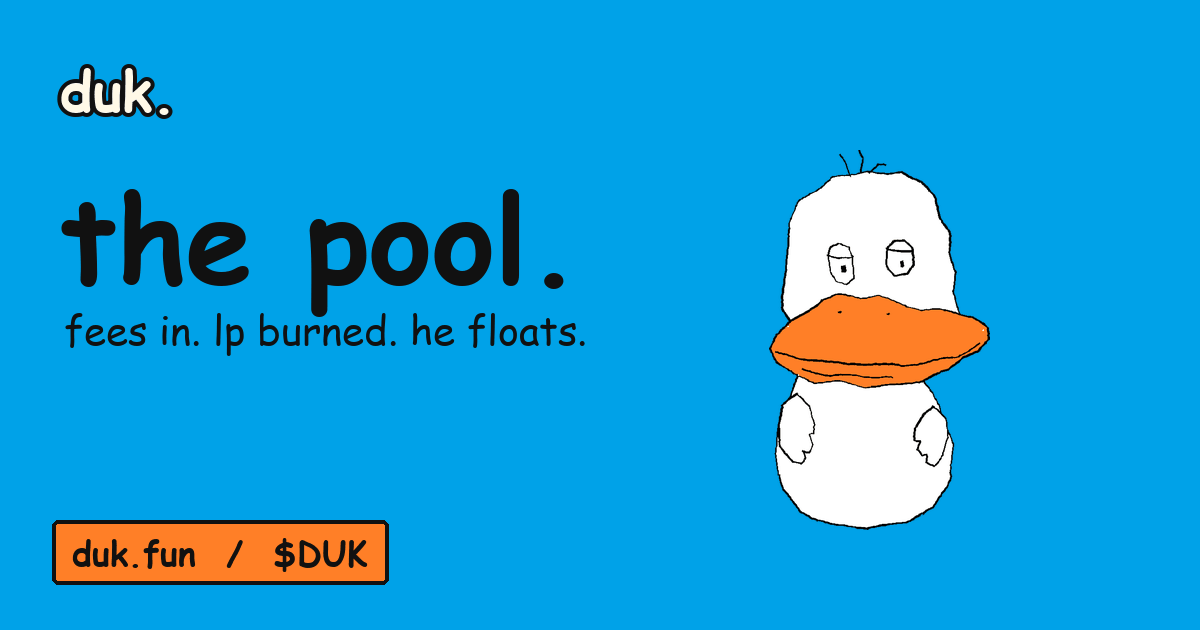
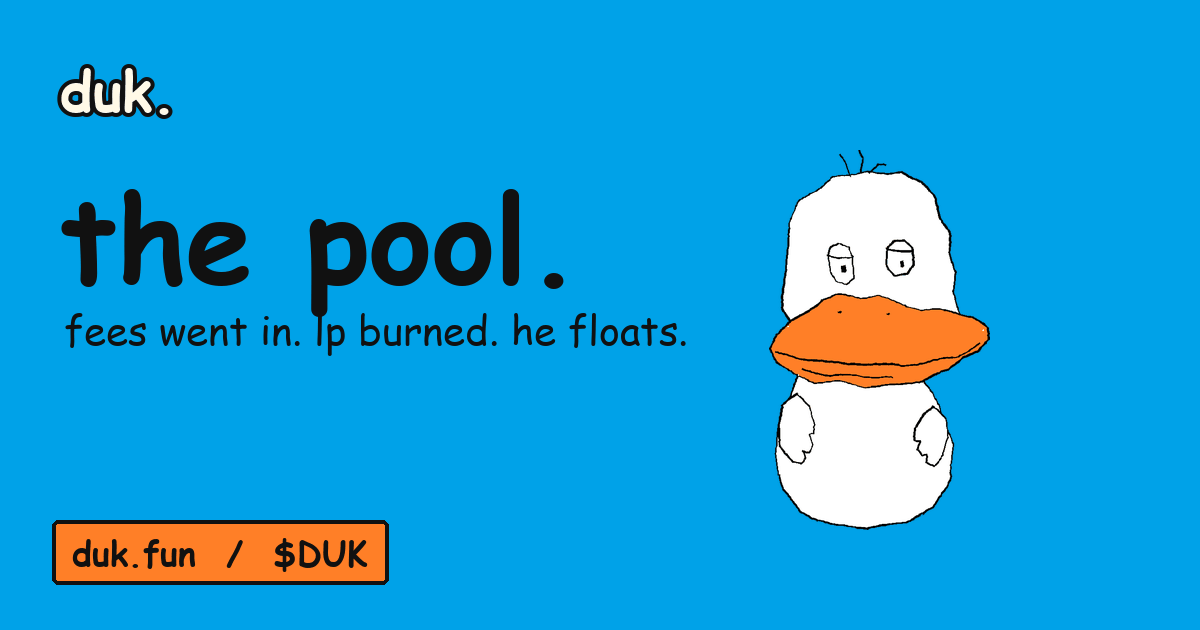
pool copy: receipt-backed past tense
- [data-pool-added] lines (pool hero, home card, manual receipts) filled by app.js from /log totals.solAdded: 'the bot has added N sol to the pool and burned the lp from every add.'
- how-an-add-works explainer framed as 'when the bot adds'; h1 'fees went in the pool.'; press text + zip, pool og card past tense
- restamp app.js on all pages

Changed region(s): [[0.1233, 0.4825, 0.5858, 0.573]]

diff --git a/pool.html b/pool.html
@@ -5,22 +5,22 @@
   <meta name="viewport" content="width=device-width, initial-scale=1">
   <meta name="theme-color" content="#00a2e8">
   <title>the pool / duk.</title>
-  <meta name="description" content="fees go in the pool. a pool add: the bot claims creator fees, buys a slice of duk, adds duk and sol to the pool and burns the lp. receipts here. not a price floor. $DUK">
+  <meta name="description" content="fees went in the pool. the bot has added duk + sol to the pool and burned the lp from every add. receipts here. not a price floor. $DUK">
   <link rel="canonical" href="https://duk.fun/pool.html">
   <meta property="og:title" content="the pool / duk.">
-  <meta property="og:description" content="a pool add: the bot claims creator fees, buys a slice of duk, adds duk and sol to the pool and burns the lp. every add links to its transaction. $DUK">
+  <meta property="og:description" content="the bot has added duk + sol to the pool and burned the lp from every add. every add links to its transaction. $DUK">
   <meta property="og:type" content="website">
   <meta property="og:url" content="https://duk.fun/pool.html">
-  <meta property="og:image" content="https://duk.fun/assets/og/pool.png?v=6c07bb58">
+  <meta property="og:image" content="https://duk.fun/assets/og/pool.png?v=4b24f398">
   <meta property="og:image:width" content="1200">
   <meta property="og:image:height" content="630">
-  <meta property="og:image:alt" content="the pool. fees in. lp burned. he floats. duk floating on his back.">
+  <meta property="og:image:alt" content="the pool. fees went in. lp burned. he floats. duk floating on his back.">
   <meta property="og:site_name" content="duk.">
   <meta name="twitter:card" content="summary_large_image">
   <meta name="twitter:title" content="the pool / duk.">
-  <meta name="twitter:description" content="a pool add: the bot claims creator fees, buys a slice of duk, adds duk and sol to the pool and burns the lp. every add links to its transaction. $DUK">
-  <meta name="twitter:image" content="https://duk.fun/assets/og/pool.png?v=6c07bb58">
-  <meta name="twitter:image:alt" content="the pool. fees in. lp burned. he floats. duk floating on his back.">
+  <meta name="twitter:description" content="the bot has added duk + sol to the pool and burned the lp from every add. every add links to its transaction. $DUK">
+  <meta name="twitter:image" content="https://duk.fun/assets/og/pool.png?v=4b24f398">
+  <meta name="twitter:image:alt" content="the pool. fees went in. lp burned. he floats. duk floating on his back.">
   <meta name="twitter:site" content="@justdukfun">
   <link rel="icon" type="image/png" href="assets/memes/pfp.png">
   <link rel="apple-touch-icon" href="assets/icons/apple-touch-icon.png">
@@ -28,8 +28,8 @@
   <link rel="stylesheet" href="style.css?v=c09cd88d">
   <link rel="stylesheet" href="pool.css?v=e689f757">
   <script src="assets/config.js?v=4f90962a" defer></script>
-  <script src="app.js?v=e9706fc8" defer></script>
-  <script src="pool.js?v=91ebfe99" defer></script>
+  <script src="app.js?v=a1ea5574" defer></script>
+  <script src="pool.js?v=e0f2d941" defer></script>
 </head>
 <body class="pool-page">
   <a class="skip-link" href="#main">skip to the page</a>
@@ -40,9 +40,9 @@
   <main id="main">
     <section class="page-hero page-width" aria-labelledby="pool-title">
       <div>
-        <p class="eyebrow">the pool / where the fees go</p>
-        <h1 id="pool-title">fees go<br>in the pool.</h1>
-        <p class="lead">here's a pool add: the bot claims creator fees, buys a slice of duk with them, adds duk and sol to the pool and burns the lp. receipts below.<br><strong class="pool-hero-flat">a deeper pool can mean less slippage. not a price floor.</strong></p>
+        <p class="eyebrow">the pool / where the fees went</p>
+        <h1 id="pool-title">fees went<br>in the pool.</h1>
+        <p class="lead"><span data-pool-added>the bot has added sol to the pool and burned the lp from every add.</span> receipts below.<br><strong class="pool-hero-flat">a deeper pool can mean less slippage. not a price floor.</strong></p>
         <p class="pool-hero-jump"><a class="button" href="#pool-live">see the water</a> <a class="text-link" href="#pool-receipts">skip to the receipts <span aria-hidden="true">↓</span></a></p>
       </div>
       <img class="page-hero-art" id="pool-hero-art" src="assets/stand.png" width="800" height="1000" alt="duk. standing at the edge of the pool.">
@@ -63,13 +63,13 @@
         <li class="has-art"><strong>"exit liquidity."</strong><span>someone needed a buyer so they could sell. it was you.</span><img src="assets/obj_liq.png" width="500" height="280" alt="" loading="lazy"></li>
         <li><strong>"graduated. still needs supervision."</strong><span>the coin left the bonding curve and landed in a tiny pool.</span></li>
       </ol>
-      <p class="pool-shrug">duk can't fix any of that.<br><strong>he can put his creator fees in the pool.</strong></p>
+      <p class="pool-shrug">duk can't fix any of that.<br><strong>he put his creator fees in the pool.</strong></p>
     </section>
 
     <section class="pool-block page-width section-space" id="pool-how" aria-labelledby="pool-how-title">
       <div class="section-heading inline-heading">
-        <div><p class="eyebrow">02 / the plumbing</p><h2 id="pool-how-title">how duk's<br>pool works.</h2></div>
-        <p>five steps.<br>a bot does them.</p>
+        <div><p class="eyebrow">02 / the plumbing</p><h2 id="pool-how-title">how an add<br>works.</h2></div>
+        <p>five steps.<br>this is how it goes when the bot adds.</p>
       </div>
       <ol class="pool-flow">
         <li><b>1</b><strong>creator fees claimed</strong><span>the keeper claims duk's creator fees into the fee wallet.</span></li>
@@ -81,9 +81,9 @@
       <div class="pool-fineprint">
         <h3>the fine print, in big letters.</h3>
         <ul>
-          <li><strong>a keeper does it.</strong> a small bot on a server runs each add: fees claimed, a slice buys duk, duk and sol added, lp burned.</li>
+          <li><strong>a keeper does it.</strong> each add is run by a small bot on a server: fees claimed, a slice buys duk, duk and sol added, lp burned.</li>
           <li><strong>additions depend on fees, the keeper and execution.</strong> no trades means no fees, and no fees means nothing to add. if the keeper is down, nothing gets added either.</li>
-          <li><strong>other people's lp is separate.</strong> we burn the lp from our adds. everyone else's lp is theirs.</li>
+          <li><strong>other people's lp is separate.</strong> we burned the lp from our adds. everyone else's lp is theirs.</li>
         </ul>
       </div>
     </section>
@@ -95,8 +95,8 @@
       </div>
 
       <div class="pool-now" id="pool-now" aria-labelledby="pp-now-title">
-        <h3 id="pp-now-title">what the bot is doing now</h3>
-        <p class="pool-now-lead">a pool add: the bot claims creator fees, a slice of the sol buys duk, duk and sol go in the pool, and the lp is burned. receipts below.</p>
+        <h3 id="pp-now-title">what the bot has done</h3>
+        <p class="pool-now-lead">straight from the bot's log: the fees it has claimed, its launch-day curve buys and every add, each with a receipt.</p>
         <div class="pool-counters" role="group" aria-labelledby="pp-now-counter-title">
           <h3 id="pp-now-counter-title">so far</h3>
           <div><span>fees claimed (sol)</span><strong id="pp-claimed">—</strong></div>
@@ -168,8 +168,8 @@
       <div class="pool-wallet">
         <div>
           <p class="eyebrow">04 / the fee wallet</p>
-          <h2 id="pool-wallet-title">where the<br>fees land.</h2>
-          <p class="pool-wallet-lead">creator fees land here and the keeper spends from here. it's a public wallet, so anyone can look it up.</p>
+          <h2 id="pool-wallet-title">the fee<br>wallet.</h2>
+          <p class="pool-wallet-lead">the keeper's fee wallet. it's a public wallet, so anyone can look it up.</p>
         </div>
         <div class="pool-wallet-box">
           <label for="pp-wallet">fee wallet (solana)</label>
@@ -193,7 +193,7 @@
         <div class="pool-is">
           <h3>it is</h3>
           <ul>
-            <li>creator fees helping deepen the pool.</li>
+            <li>creator fees the bot has put in the pool.</li>
             <li>the lp from each add, burned.</li>
             <li>receipts in public. every add links to its transaction.</li>
           </ul>
@@ -219,7 +219,7 @@
       <div class="pool-faq">
         <details>
           <summary>why burn the lp?</summary>
-          <p>lp tokens are the claim ticket to take liquidity back out. the keeper burns the lp from the bot's adds. burned lp can't be redeemed, so nobody can withdraw that liquidity, us included. selling can still take sol out of the pool.</p>
+          <p>lp tokens are the claim ticket to take liquidity back out. the keeper burned the lp from every one of the bot's adds. burned lp can't be redeemed, so nobody can withdraw that liquidity, us included. selling can still take sol out of the pool.</p>
         </details>
         <details>
           <summary>does this pump the price?</summary>
@@ -231,7 +231,7 @@
         </details>
         <details>
           <summary>who runs the keeper?</summary>
-          <p>the dev runs it: a small automated service on a server. it claims creator fees, does the swap, the add and the burn, and writes the log this page reads.</p>
+          <p>the dev runs it: a small automated service on a server. when it adds, it claims creator fees, does the swap, the add and the burn. it writes the log this page reads.</p>
         </details>
         <details>
           <summary>can you stop it?</summary>

diff --git a/manual.html b/manual.html
@@ -28,7 +28,7 @@
   <link rel="stylesheet" href="style.css?v=c09cd88d">
   <link rel="stylesheet" href="manual.css?v=e2186b79">
   <script src="assets/config.js?v=4f90962a" defer></script>
-  <script src="app.js?v=e9706fc8" defer></script>
+  <script src="app.js?v=a1ea5574" defer></script>
 </head>
 <body>
   <a class="skip-link" href="#main">skip to the page</a>
@@ -220,8 +220,8 @@
           </header>
           <div class="chapter-body">
             <div class="chapter-text">
-              <p class="chapter-lead">how a pool add works.</p>
-              <p>duk graduated to pumpswap on nov 26. for each add, a bot we call the keeper does this:</p>
+              <p class="chapter-lead">how a pool add works, when the bot adds.</p>
+              <p>duk graduated to pumpswap on nov 26. when it adds, a bot we call the keeper does this:</p>
               <ol class="pool-flow" aria-label="what happens in a pool add">
                 <li><b>claim.</b> the keeper claims duk's creator fees.</li>
                 <li><b>buy duk.</b> a slice of the sol buys duk on the pool.</li>
@@ -232,7 +232,7 @@
               <h3>the small print, at normal size</h3>
               <ul class="plain-list">
                 <li>it only adds anything if there are creator fees to claim, the keeper is running and the transactions go through.</li>
-                <li>this is how we set the keeper up. no smart contract forces it, so until there are transactions to show, it's a plan.</li>
+                <li>this is how we set the keeper up. no smart contract forces it. the receipts are what counts.</li>
                 <li>only the lp from the keeper's own adds gets burned. anyone else's lp is theirs.</li>
                 <li>burning lp doesn't burn any duk supply. lp tokens are the claim on the liquidity. the duk in the pool stays there.</li>
                 <li>selling can still take sol out of the pool, so it can still get shallower.</li>
@@ -240,7 +240,7 @@
               <h3>what it does</h3>
               <p>a deeper pool can mean less slippage. <strong>not a price floor.</strong> the price can still go down, a lot. he's seen it.</p>
               <h3>receipts</h3>
-              <p>every add and burn is listed on <a href="pool.html">the pool page</a> with a link to the transaction, so you don't have to take our word for it. the counter there shows what's been added to the pool so far, which isn't the same as what's in the pool right now. if the keeper is waiting or stopped, the page says that too.</p>
+              <p><span data-pool-added>the bot has added sol to the pool and burned the lp from every add.</span> every add and burn is listed on <a href="pool.html">the pool page</a> with a link to the transaction, so you don't have to take our word for it. the counter there shows what's been added to the pool so far, which isn't the same as what's in the pool right now. if the keeper is waiting or stopped, the page says that too.</p>
               <p><a class="button" href="pool.html">go to the pool page</a></p>
             </div>
             <div class="chapter-margin" role="note" aria-label="margin notes, chapter 4">
@@ -370,11 +370,11 @@
                 </div>
                 <div>
                   <dt>who's the dev? what does the dev do?</dt>
-                  <dd>the dev runs the keeper, a small bot. for each pool add it claims creator fees, buys a slice of duk, adds duk and sol to the pool and burns the lp it gets back. every add and burn shows up on <a href="pool.html">the pool page</a> with the transaction.</dd>
+                  <dd>the dev runs the keeper, a small bot. when it adds, it claims creator fees, buys a slice of duk, adds duk and sol to the pool and burns the lp it gets back. every add and burn shows up on <a href="pool.html">the pool page</a> with the transaction.</dd>
                 </div>
                 <div>
                   <dt>what about liquidity?</dt>
-                  <dd>for each pool add the bot claims creator fees, buys a slice of duk, adds duk and sol to the pool, and the lp from each of the keeper's adds gets burned. a deeper pool can mean less slippage. not a price floor. selling can still take sol out of the pool. the counter shows what's been added so far, which isn't what's in the pool now. more in <a href="#the-pool">chapter 4</a>.</dd>
+                  <dd>when the bot adds, it claims creator fees, buys a slice of duk, adds duk and sol to the pool and burns the lp from that add. a deeper pool can mean less slippage. not a price floor. selling can still take sol out of the pool. the counter shows what's been added so far, which isn't what's in the pool now. more in <a href="#the-pool">chapter 4</a>.</dd>
                 </div>
                 <div>
                   <dt>where's the ca?</dt>

diff --git a/app.js b/app.js
@@ -615,11 +615,14 @@
     }).catch(() => { /* no strip. */ });
   }
 
-  // Home pool card: today's add count (utc) and how long ago the newest one landed, from the keeper's /log
-  // (limit=0 = summaries only, a few kb). Hidden when the keeper isn't set, isn't adding or is restarting (zeros).
+  // Pool lines from the keeper's /log (limit=0 = summaries only, a few kb), every two minutes:
+  // - [data-pool-added] (pool hero, home card, manual): receipt-backed past tense with the live total
+  //   ("the bot has added 52.73 sol ..."); the static fallback text stays while the keeper is unset, down or restarting (zeros).
+  // - [data-pool-today] (home card): today's add count (utc) and how long ago the newest one landed; hidden when not adding.
   const poolToday = document.querySelector('[data-pool-today]');
+  const poolAdded = document.querySelectorAll('[data-pool-added]');
   const keeper = typeof config.KEEPER_URL === 'string' ? config.KEEPER_URL.trim().replace(/\/+$/, '') : '';
-  if (poolToday && /^https?:\/\//.test(keeper)) {
+  if ((poolToday || poolAdded.length) && /^https?:\/\//.test(keeper)) {
     const ago = (seconds) => {
       const minutes = Math.floor(Math.max(0, Date.now() / 1000 - seconds) / 60);
       if (minutes < 1) return 'just now';
@@ -627,26 +630,37 @@
       const hours = Math.floor(minutes / 60);
       return hours < 48 ? `${hours} h ago` : `${Math.floor(hours / 24)} days ago`;
     };
-    const showPoolToday = () => fetch(`${keeper}/log?limit=0`, { cache: 'no-store' })
+    const solFormat = new Intl.NumberFormat('en-US', { maximumFractionDigits: 2 });
+    const showAdded = (log) => {
+      const sol = log && log.last_run && log.totals ? Number(log.totals.solAdded) : 0;
+      if (!(sol > 0)) return;
+      const words = `the bot has added ${solFormat.format(sol)} sol to the pool and burned the lp from every add.`;
+      poolAdded.forEach((line) => { line.textContent = words; });
+    };
+    const showToday = (log) => {
+      const newest = log && log.state === 'active' && log.last_run
+        ? list(log.recent).reduce((max, add) => Math.max(max, Number(add && add.timestamp) || 0), 0) : 0;
+      // not adding, restarting or no adds yet: no line (a stale "newest 2 min ago" would lie).
+      if (!newest) { poolToday.hidden = true; return; }
+      const today = new Date().toISOString().slice(0, 10);
+      const row = list(log.daily).find((day) => day && day.day === today);
+      const adds = row && Number.isInteger(row.adds) ? row.adds : 0;
+      // the age only shows while adds are recent (30 min); after that the line is just today's count.
+      const fresh = Date.now() / 1000 - newest < 1800;
+      if (!adds && !fresh) { poolToday.hidden = true; return; }
+      const count = adds ? `${adds} ${adds === 1 ? 'add' : 'adds'} today (utc).` : 'no adds yet today (utc).';
+      poolToday.textContent = fresh ? `${count} newest ${ago(newest)}.` : count;
+      poolToday.hidden = false;
+    };
+    const showPool = () => fetch(`${keeper}/log?limit=0`, { cache: 'no-store' })
       .then((response) => (response.ok ? response.json() : null))
       .then((log) => {
-        const newest = log && log.state === 'active' && log.last_run
-          ? list(log.recent).reduce((max, add) => Math.max(max, Number(add && add.timestamp) || 0), 0) : 0;
-        // not adding, restarting or no adds yet: no line (a stale "newest 2 min ago" would lie).
-        if (!newest) { poolToday.hidden = true; return; }
-        const today = new Date().toISOString().slice(0, 10);
-        const row = list(log.daily).find((day) => day && day.day === today);
-        const adds = row && Number.isInteger(row.adds) ? row.adds : 0;
-        // the age only shows while adds are recent (30 min); after that the line is just today's count.
-        const fresh = Date.now() / 1000 - newest < 1800;
-        if (!adds && !fresh) { poolToday.hidden = true; return; }
-        const count = adds ? `${adds} ${adds === 1 ? 'add' : 'adds'} today (utc).` : 'no adds yet today (utc).';
-        poolToday.textContent = fresh ? `${count} newest ${ago(newest)}.` : count;
-        poolToday.hidden = false;
+        if (poolAdded.length) showAdded(log);
+        if (poolToday) showToday(log);
       })
-      .catch(() => { /* the card keeps its last line. */ });
-    showPoolToday();
-    window.setInterval(() => { if (!document.hidden) showPoolToday(); }, 120000);
+      .catch(() => { /* the lines keep what they last said. */ });
+    showPool();
+    window.setInterval(() => { if (!document.hidden) showPool(); }, 120000);
   }
 
   // "put duk on your home screen": shown only when the browser offers an install (manifest.webmanifest).

diff --git a/index.html b/index.html
@@ -29,7 +29,7 @@
   <script type="application/ld+json">{"@context":"https://schema.org","@type":"WebSite","name":"duk.","alternateName":["duk.fun","$DUK"],"url":"https://duk.fun/","description":"everything's coming at you. just duk."}</script>
   <link rel="stylesheet" href="style.css?v=c09cd88d">
   <script src="assets/config.js?v=4f90962a" defer></script>
-  <script src="app.js?v=e9706fc8" defer></script>
+  <script src="app.js?v=a1ea5574" defer></script>
 </head>
 <body>
   <a class="skip-link" href="#main">skip to the page</a>
@@ -118,7 +118,7 @@
       <div class="directory">
         <a class="directory-card" href="memes.html"><span class="directory-number">memes</span><span class="directory-art is-row"><img src="assets/memes/thumbs/11_ducked.webp" alt="" width="480" height="480" loading="lazy"><img src="assets/memes/thumbs/14_duk_stare.webp" alt="" width="480" height="480" loading="lazy"><img src="assets/memes/thumbs/23_candle_rain.webp" alt="" width="480" height="480" loading="lazy"></span><h3>the archive.</h3><p><span data-count="memes">80+</span> memes, free to download and repost.</p><span class="directory-go">open the archive</span></a>
         <a class="directory-card" href="comics.html"><span class="directory-number">comics</span><span class="directory-art"><img src="assets/hit.png" alt="" width="800" height="1000" loading="lazy"></span><h3>duk comics.</h3><p>short strips. something bad happens and he lies down.</p><span class="directory-go">read the strips</span></a>
-        <a class="directory-card" href="pool.html"><span class="directory-number">the pool</span><span class="directory-art"><img src="assets/float.png" alt="" width="1000" height="600" loading="lazy"></span><h3>the pool.</h3><p>a pool add: the bot claims creator fees, buys a slice of duk, adds duk and sol to the pool and burns the lp. receipts on the pool page.</p><p class="directory-live" data-pool-today hidden></p><span class="directory-go">see what the bot is doing</span></a>
+        <a class="directory-card" href="pool.html"><span class="directory-number">the pool</span><span class="directory-art"><img src="assets/float.png" alt="" width="1000" height="600" loading="lazy"></span><h3>the pool.</h3><p><span data-pool-added>the bot has added sol to the pool and burned the lp from every add.</span> receipts on the pool page.</p><p class="directory-live" data-pool-today hidden></p><span class="directory-go">see the receipts</span></a>
         <a class="directory-card" href="cult.html"><span class="directory-number">the cult</span><span class="directory-art"><img src="assets/stand.png" alt="" width="800" height="1000" loading="lazy"></span><h3>the cult.</h3><p>the creed, duk hour, member cards and duking. you're already in.</p><span class="directory-go">go to the cult</span></a>
         <a class="directory-card" href="stickers.html"><span class="directory-number">stickers</span><span class="directory-art is-row"><img src="assets/stickers/react/18_noted.png" alt="" width="512" height="512" loading="lazy"><img src="assets/stickers/react/20_side_eye.png" alt="" width="512" height="512" loading="lazy"><img src="assets/stickers/react/36_i_see.png" alt="" width="512" height="512" loading="lazy"></span><h3>stickers.</h3><p><span data-count="stickers">170</span> stickers and reaction gifs for replying to people. on telegram too, one tap per pack.</p><span class="directory-go">get stickers</span></a>
         <a class="directory-card" href="watch.html"><span class="directory-number">watch</span><span class="directory-art"><img src="assets/videos/thumbs/duk-trailer-poster.webp" alt="" width="1080" height="1080" loading="lazy"></span><h3>watch.</h3><p>the trailer and <span data-count="clips">6</span> short clips.</p><span class="directory-go">watch</span></a>

diff --git a/press.html b/press.html
@@ -29,7 +29,7 @@
   <link rel="stylesheet" href="style.css?v=c09cd88d">
   <link rel="stylesheet" href="press.css?v=7c77a9b8">
   <script src="assets/config.js?v=4f90962a" defer></script>
-  <script src="app.js?v=e9706fc8" defer></script>
+  <script src="app.js?v=a1ea5574" defer></script>
   <script src="press.js?v=71bc16f5" defer></script>
 </head>
 <body class="press-page">
@@ -82,7 +82,7 @@ duk.fun</p>
         <div><dt>chain</dt><dd>solana. launched on pump.fun.</dd></div>
         <div class="is-ca"><dt>ca</dt><dd><div class="ca-box press-ca"><span id="ca-soon">DG2EJSEtPBge5F7zBCTZG78p27LTCiq8tUkJ39qupump</span><label id="ca-field" hidden><span class="sr-only">contract address</span><input id="ca" readonly spellcheck="false"></label><button id="copy-ca" hidden>copy</button></div><p id="copy-status" class="copy-status" aria-live="polite"></p></dd></div>
         <div><dt>who</dt><dd>a white farm duck who ducks everything. the face never acts. the pose does.</dd></div>
-        <div><dt>the pool</dt><dd data-press-text="the pool">after graduation, creator fees help add duk + sol to the pool. the lp from each add gets burned. receipts on duk.fun. a deeper pool can mean less slippage. not a price floor.</dd></div>
+        <div><dt>the pool</dt><dd data-press-text="the pool">after graduation, the bot added creator fees to the pool as duk + sol and burned the lp from every add. receipts on duk.fun. a deeper pool can mean less slippage. not a price floor.</dd></div>
         <div><dt>the greeting</dt><dd>someone says "duk." you say "duk." back.</dd></div>
         <div><dt>duk hour</dt><dd>every day at 21:00 utc, everyone posts "duk." for ten minutes.</dd></div>
         <div><dt>links</dt><dd class="press-links"><a href="https://duk.fun">duk.fun</a> <a href="https://x.com/justdukfun" target="_blank" rel="noopener noreferrer">@justdukfun on x</a> <a href="https://www.instagram.com/justdukfun/" target="_blank" rel="noopener noreferrer">@justdukfun on instagram</a> <a href="https://pump.fun/coin/DG2EJSEtPBge5F7zBCTZG78p27LTCiq8tUkJ39qupump" target="_blank" rel="noopener noreferrer">pump.fun</a> <a href="pool.html">the pool receipts</a> <a href="buy.html">how to buy</a> <a href="feed.xml">rss of every new drop</a></dd></div>

diff --git a/pool.js b/pool.js
@@ -61,7 +61,7 @@
       : `${adds} ${adds === 1 ? 'add' : 'adds'} so far.`;
     const page = `${(typeof config.SITE === 'string' && /^https:\/\//.test(config.SITE) ? config.SITE : 'https://duk.fun').replace(/\/+$/, '')}/pool.html`;
     $('pp-post').href = `https://x.com/intent/post?text=${encodeURIComponent(
-      `fees go in the pool.\n${count} the lp from each one gets burned.\nreceipts: ${page}\n\njust duk. $DUK`)}`;
+      `fees went in the pool.\n${count} the lp from every add got burned.\nreceipts: ${page}\n\njust duk. $DUK`)}`;
     $('pp-post').hidden = !adds;
   };
 

diff --git a/comics.html b/comics.html
@@ -29,7 +29,7 @@
   <link rel="stylesheet" href="style.css?v=c09cd88d">
   <link rel="stylesheet" href="collections.css?v=c5ce2ee4">
   <script src="assets/config.js?v=4f90962a" defer></script>
-  <script src="app.js?v=e9706fc8" defer></script>
+  <script src="app.js?v=a1ea5574" defer></script>
   <script src="collections.js?v=76a48b02" defer></script>
 </head>
 <body class="comics-page" data-collection="comics">

diff --git a/kit.html b/kit.html
@@ -28,7 +28,7 @@
   <link rel="stylesheet" href="style.css?v=c09cd88d">
   <link rel="stylesheet" href="collections.css?v=c5ce2ee4">
   <script src="assets/config.js?v=4f90962a" defer></script>
-  <script src="app.js?v=e9706fc8" defer></script>
+  <script src="app.js?v=a1ea5574" defer></script>
   <script src="collections.js?v=76a48b02" defer></script>
 </head>
 <body class="kit-page" data-collection="kit">

diff --git a/stickers.html b/stickers.html
@@ -29,7 +29,7 @@
   <link rel="stylesheet" href="style.css?v=c09cd88d">
   <link rel="stylesheet" href="media-pages.css?v=87cd7a7e">
   <script src="assets/config.js?v=4f90962a" defer></script>
-  <script src="app.js?v=e9706fc8" defer></script>
+  <script src="app.js?v=a1ea5574" defer></script>
   <script src="media.js?v=a80e2d9f" defer></script>
 </head>
 <body class="stickers-page" data-media="stickers">

diff --git a/watch.html b/watch.html
@@ -29,7 +29,7 @@
   <link rel="stylesheet" href="style.css?v=c09cd88d">
   <link rel="stylesheet" href="media-pages.css?v=87cd7a7e">
   <script src="assets/config.js?v=4f90962a" defer></script>
-  <script src="app.js?v=e9706fc8" defer></script>
+  <script src="app.js?v=a1ea5574" defer></script>
   <script src="media.js?v=a80e2d9f" defer></script>
 </head>
 <body class="watch-page" data-media="watch">

diff --git a/cult.html b/cult.html
@@ -29,7 +29,7 @@
   <link rel="stylesheet" href="cult.css?v=10b4957f">
   <link rel="stylesheet" href="card.css?v=d2667178">
   <script src="assets/config.js?v=4f90962a" defer></script>
-  <script src="app.js?v=e9706fc8" defer></script>
+  <script src="app.js?v=a1ea5574" defer></script>
   <script src="cult.js?v=f14e1b10" defer></script>
   <script src="card.js?v=6e344c63" defer></script>
 </head>

diff --git a/memes.html b/memes.html
@@ -29,7 +29,7 @@
   <link rel="stylesheet" href="style.css?v=c09cd88d">
   <link rel="stylesheet" href="archive.css?v=37011571">
   <script src="assets/config.js?v=4f90962a" defer></script>
-  <script src="app.js?v=e9706fc8" defer></script>
+  <script src="app.js?v=a1ea5574" defer></script>
   <script src="archive.js?v=d2b52b38" defer></script>
 </head>
 <body class="archive-page">
